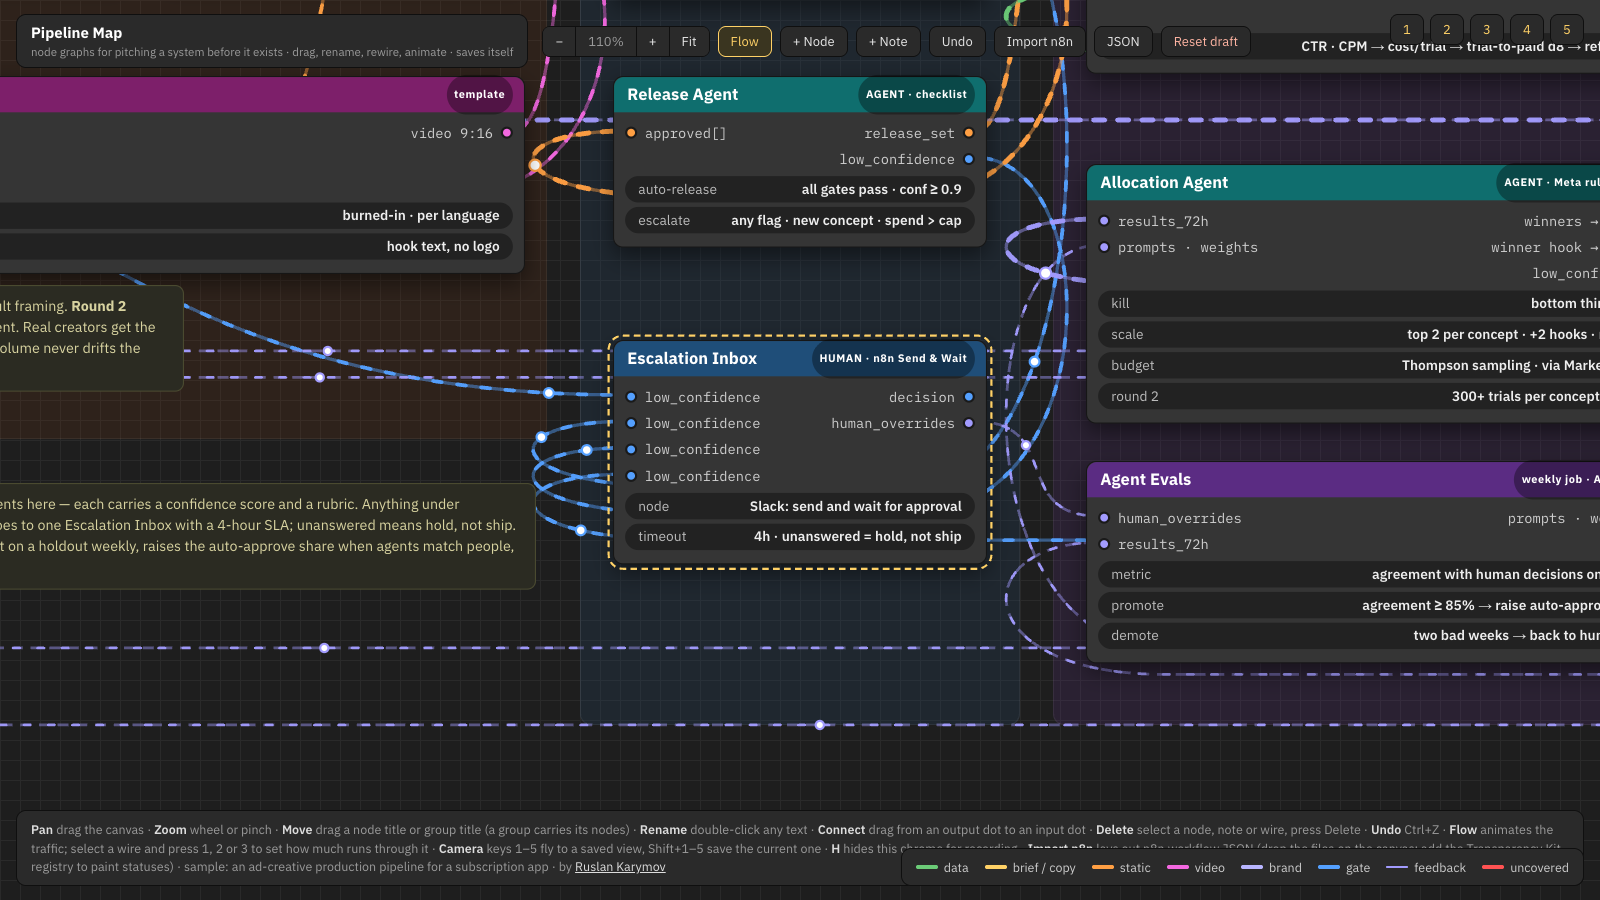
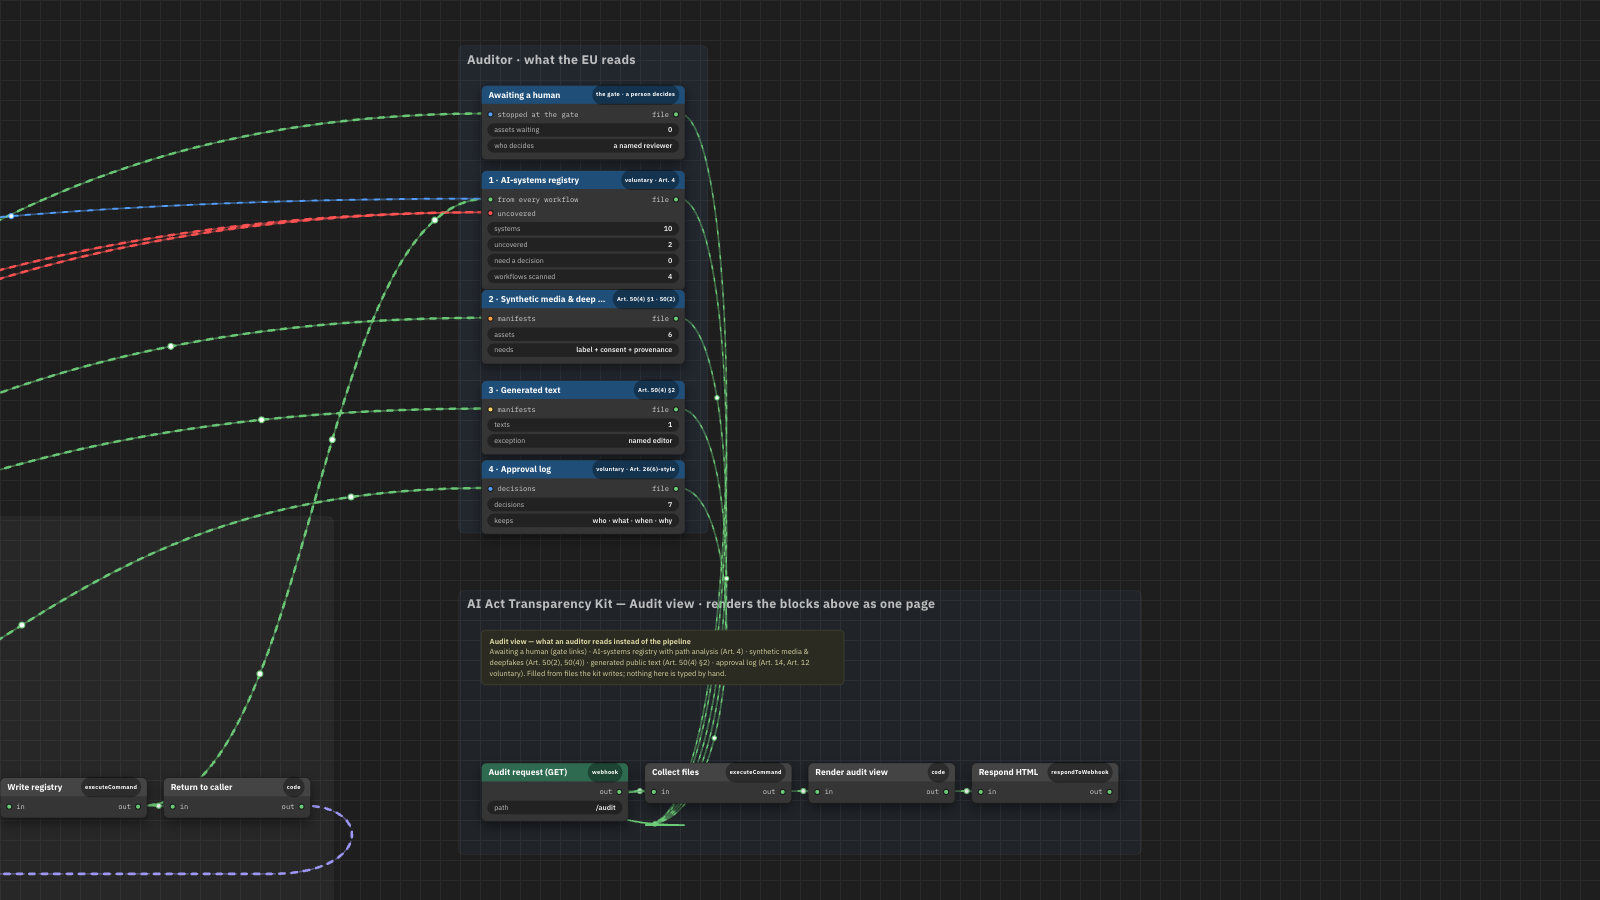
Case page: correct images; map stills regenerated after the importer fix

diff --git a/docs/index.html b/docs/index.html
@@ -49,7 +49,7 @@ code{font:13px ui-monospace,Menlo,monospace;background:#1f2530;padding:1px 6px;b
   <p class="sub">The same pattern twice: a system does the volume, a person approves, the numbers are reported in the units of the operation. The first line was pitched before it existed; the second runs and produces evidence while it does.</p>
   <div class="two">
     <div class="card">
-      <a href="https://karusrus.github.io/pipeline-map/"><img src="https://karusrus.github.io/pipeline-map/docs/shot-overview.jpg" alt="Ad-creative production pipeline draft in Pipeline Map"></a>
+      <a href="https://karusrus.github.io/pipeline-map/"><img src="https://karusrus.github.io/assets/w-pipeline-overview.jpg" alt="Ad-creative production pipeline draft in Pipeline Map"></a>
       <div class="b">
         <p class="kicker">Line 1 · the pitch</p>
         <h3>Ad-creative production at volume</h3>
